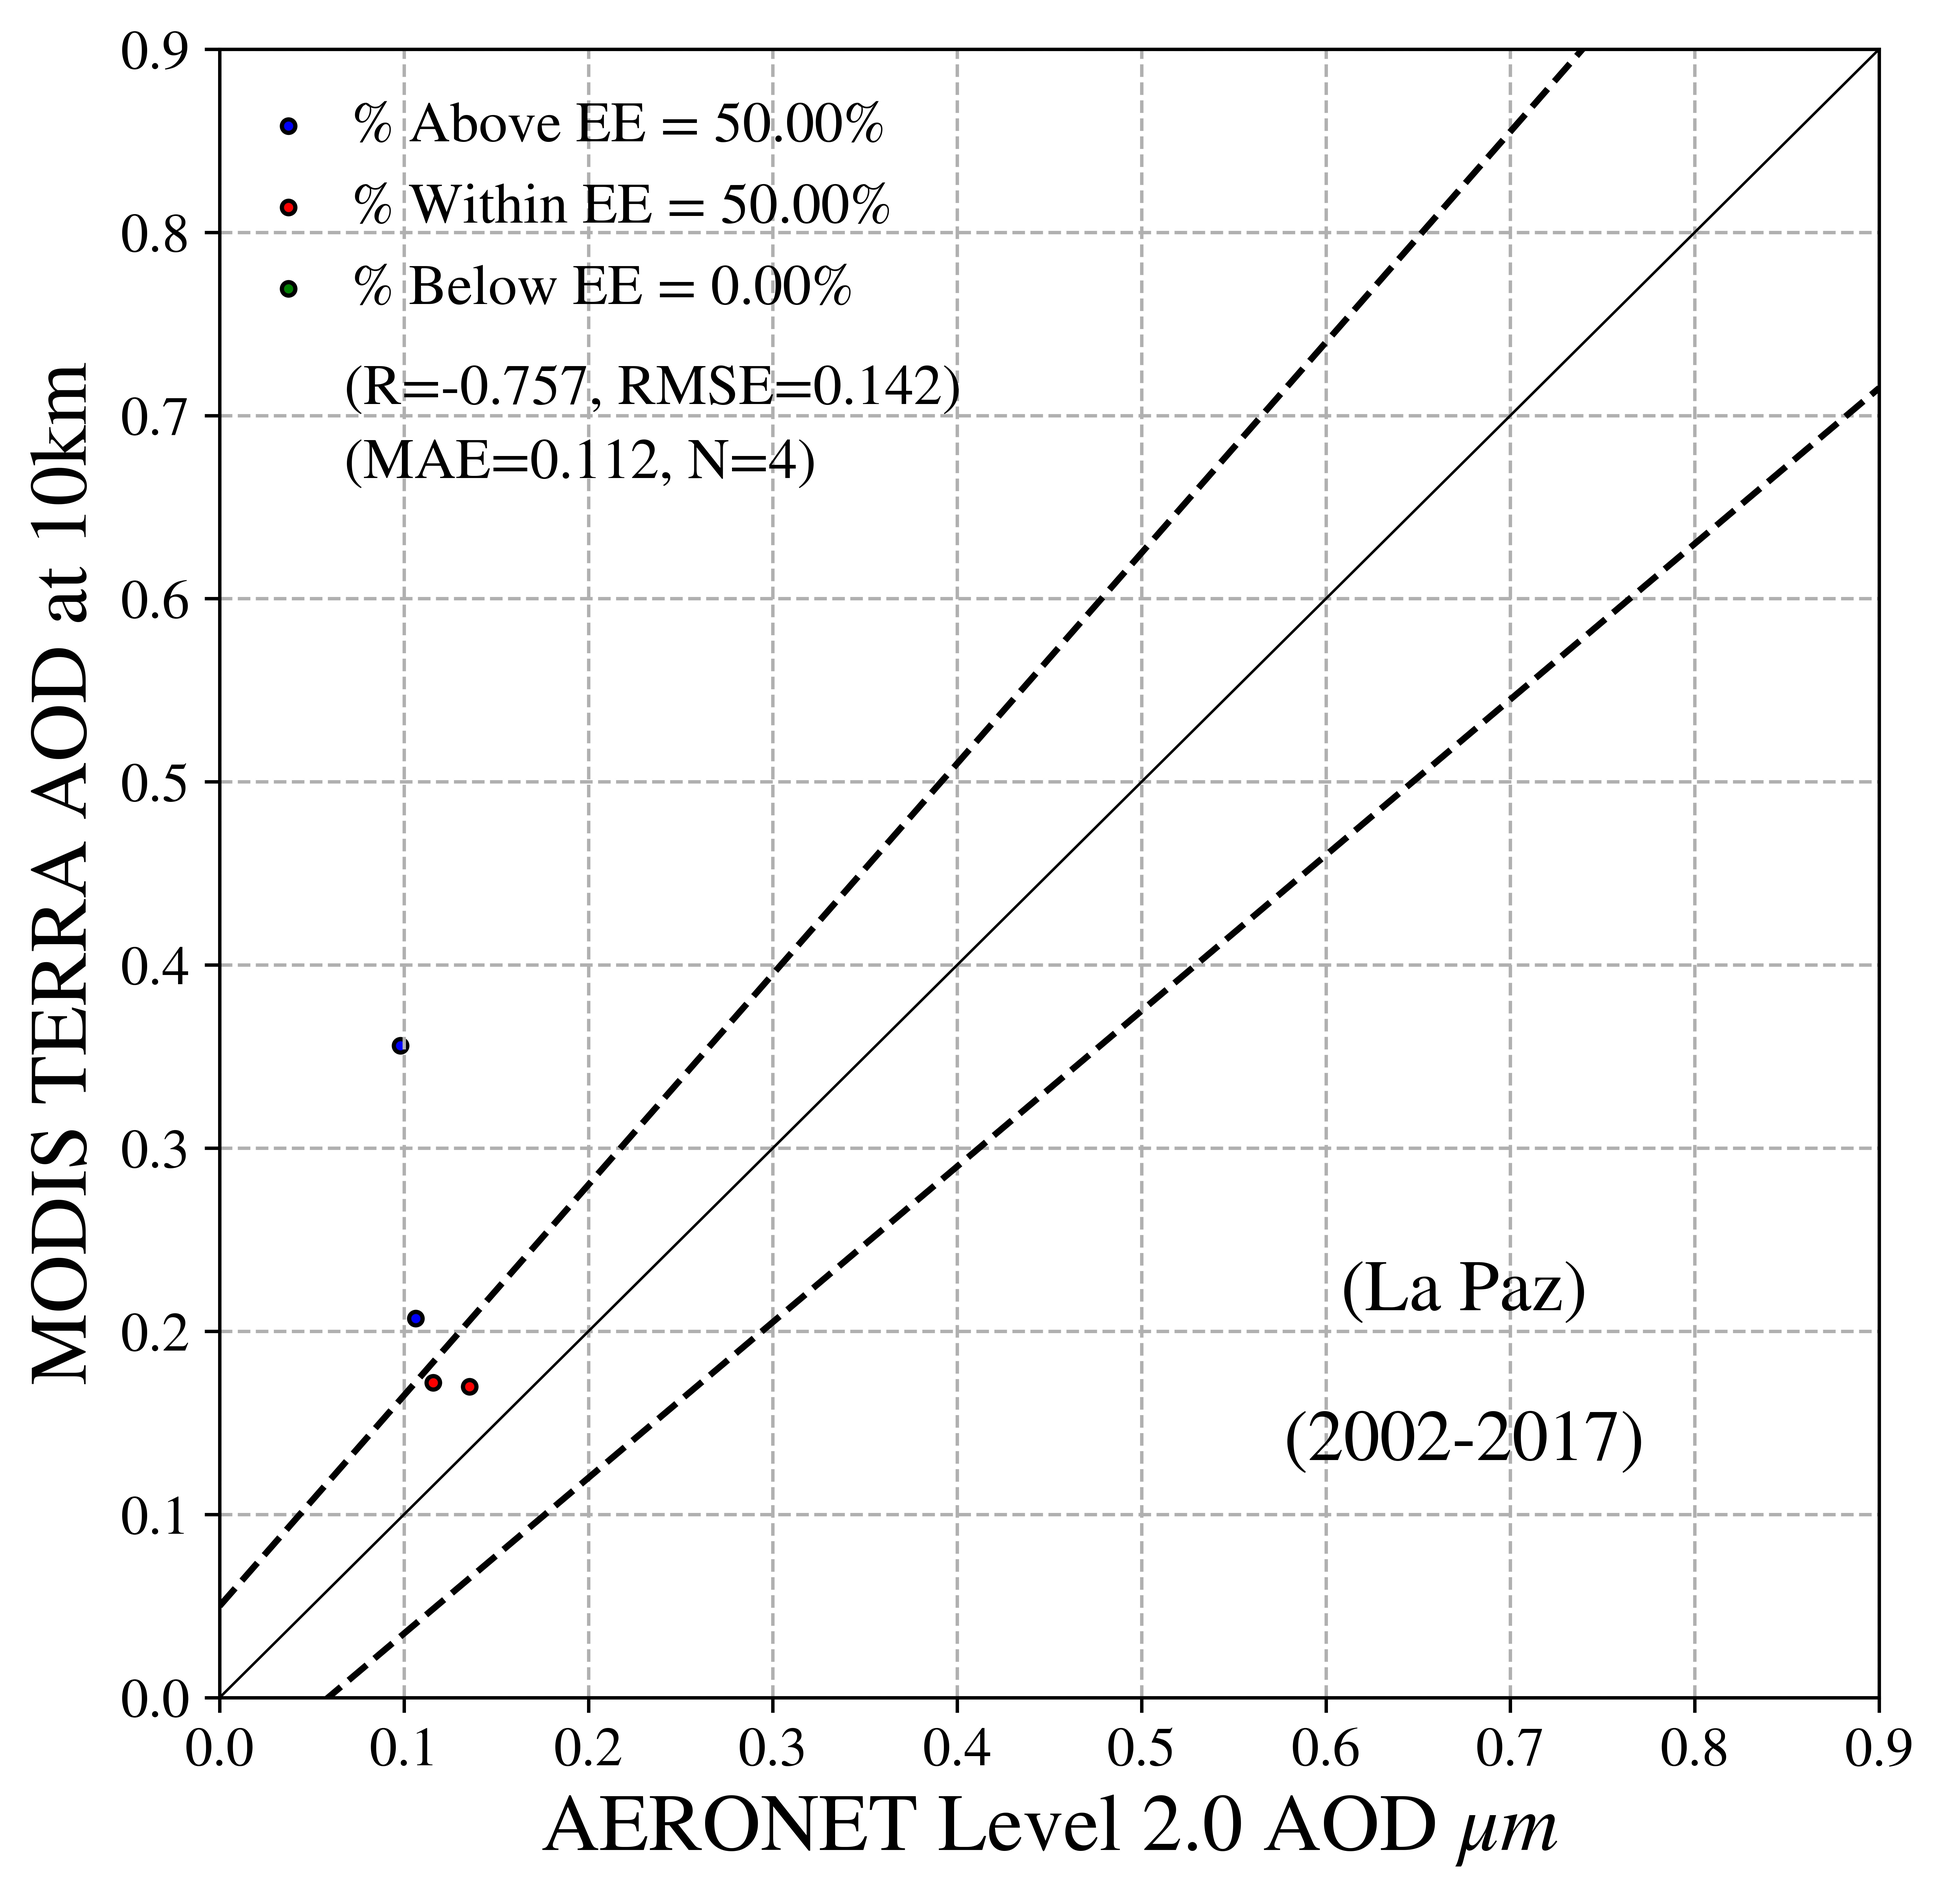
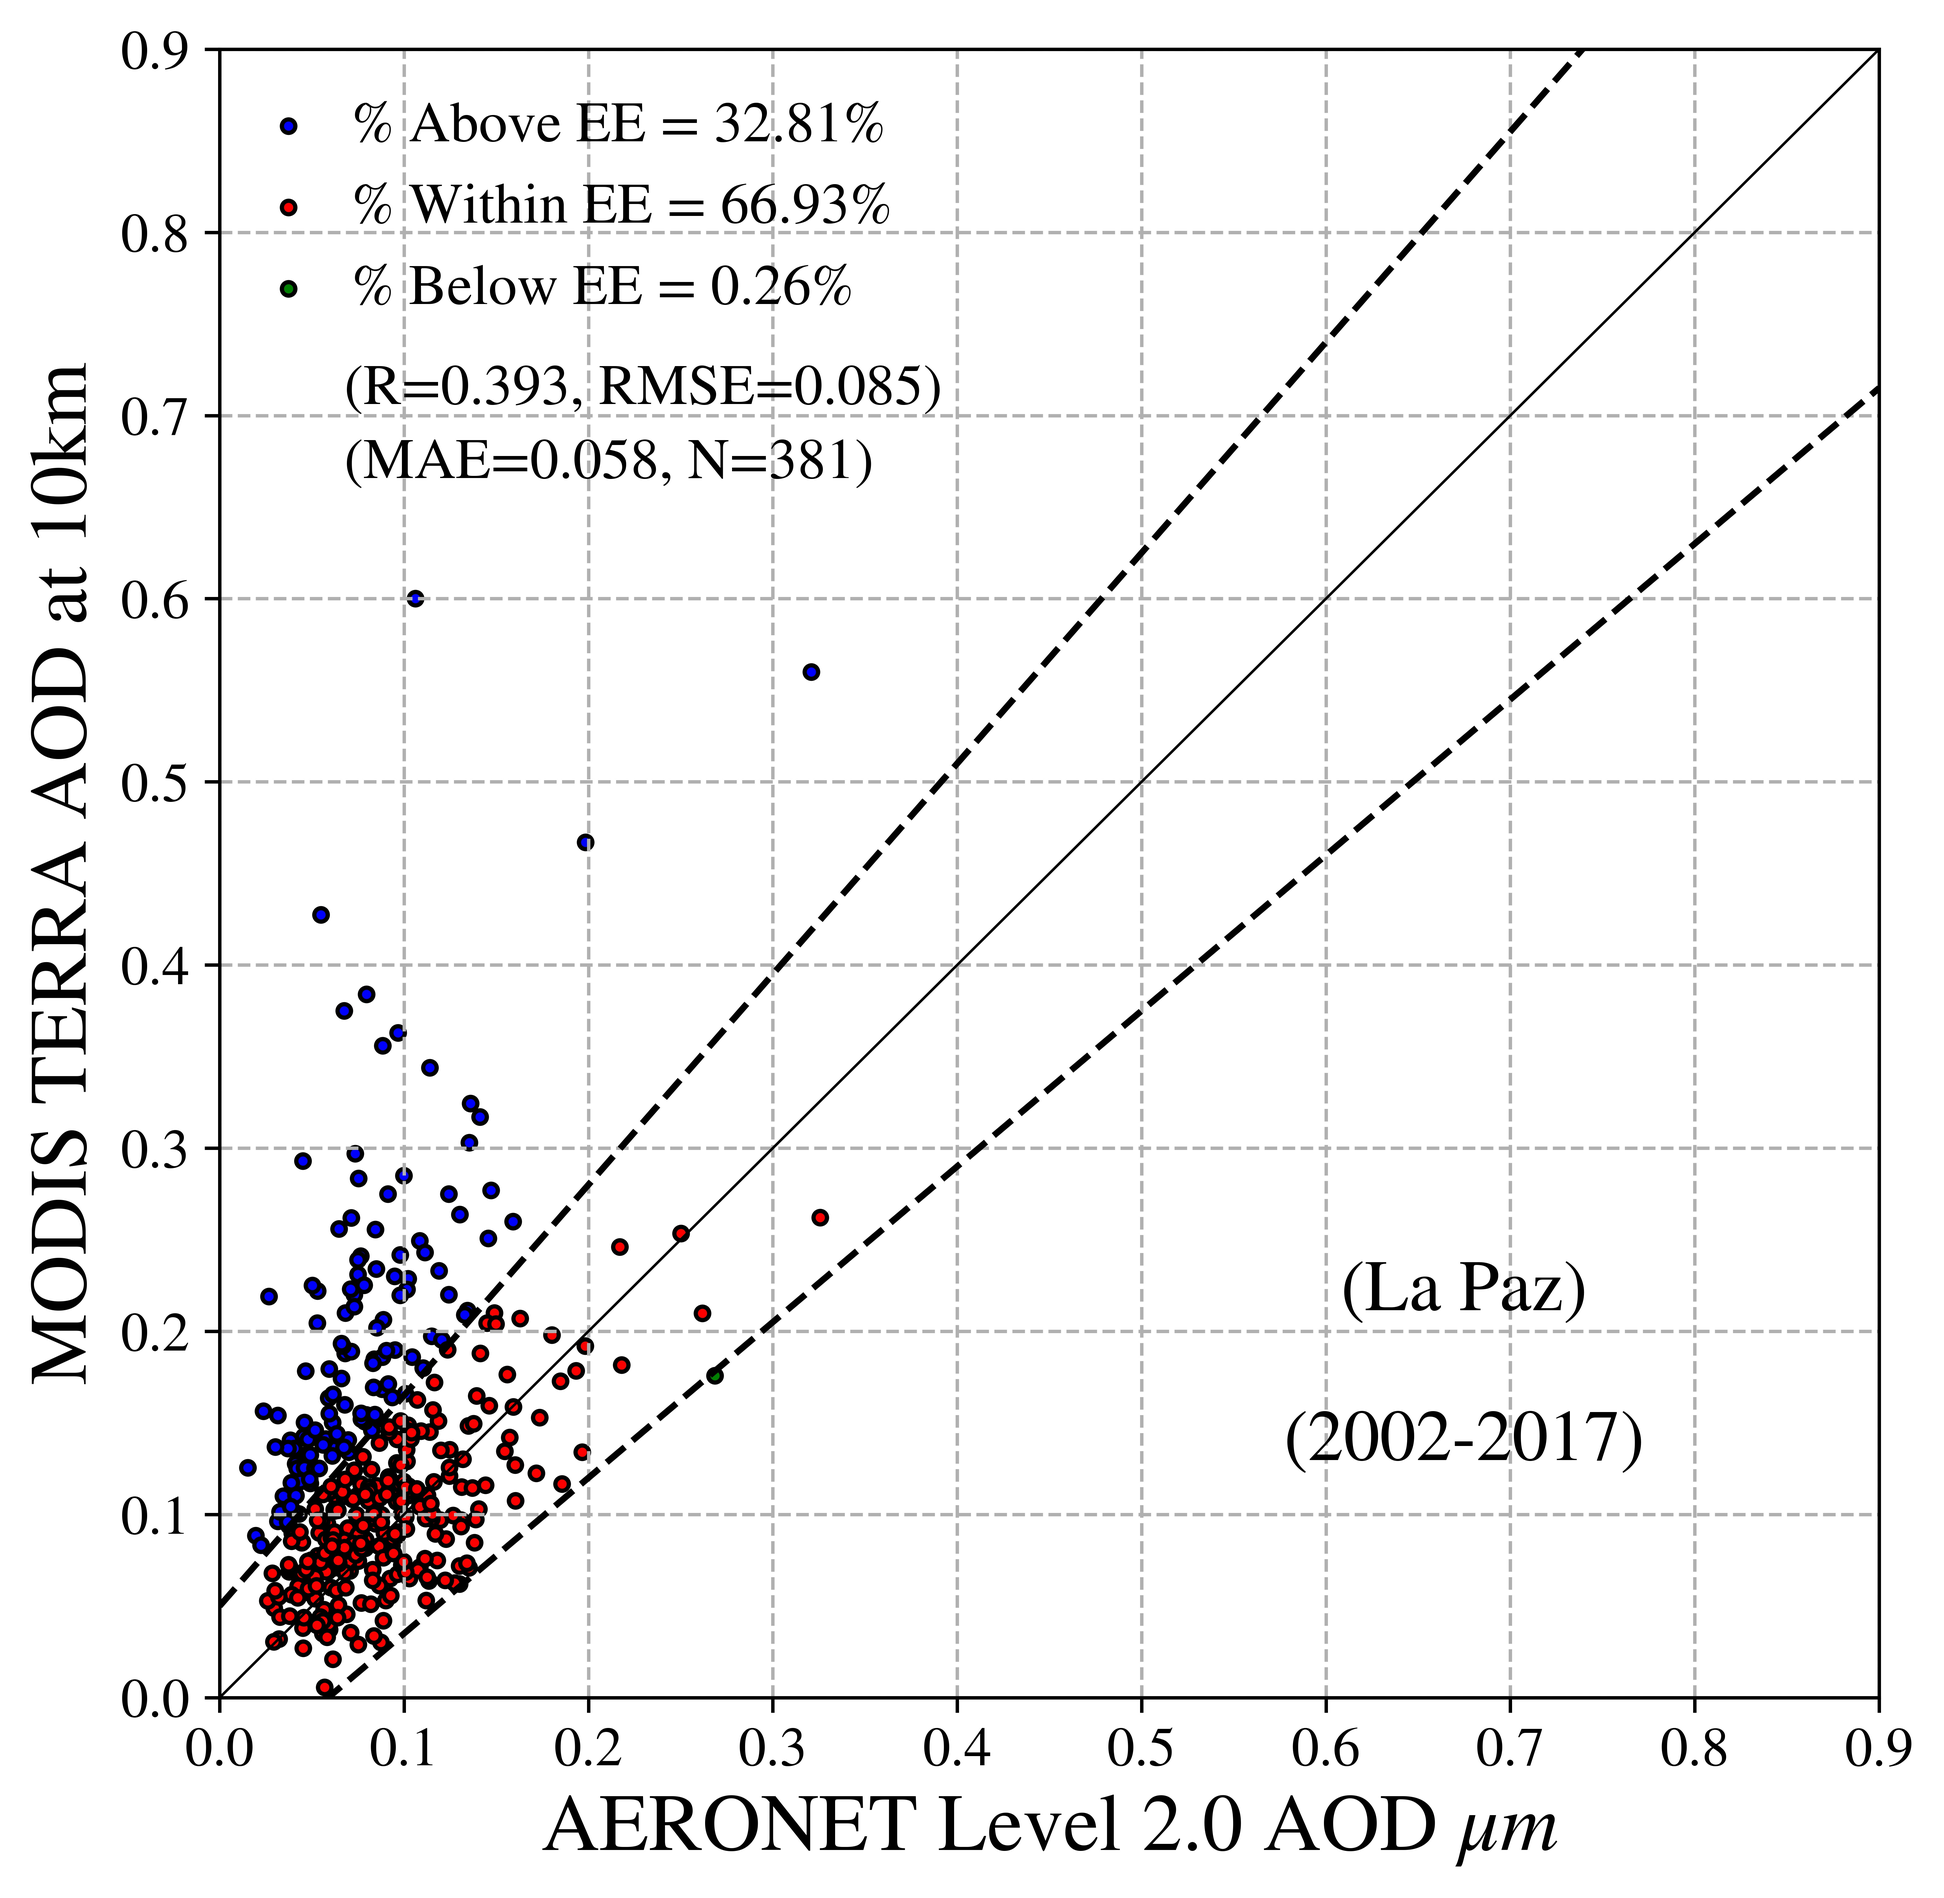
Added statistics code

diff --git a/MODIS_AOD modified/statistics.py b/MODIS_AOD modified/statistics.py
@@ -1,0 +1,107 @@
+# -*- coding: utf-8 -*-
+"""
+Created on Mon May 07 17:34:56 2018
+
+@author: gerar
+"""
+
+import os
+import pandas as pd
+import numpy as np
+from scipy.stats.stats import pearsonr
+
+#%%
+def rmse(predictions, targets):
+    return np.sqrt(((predictions - targets) ** 2).mean())
+
+#%%
+def mae(predictions,targets):
+    return np.abs((predictions - targets)).mean()
+
+#%%
+def bias(predictions,targets):
+    return np.mean(predictions)-np.mean(targets)
+
+#%%
+def r_deming(x,y):
+    x_mean = np.mean(x)
+    y_mean = np.mean(y)
+    sxx = np.sum(np.power(x-x_mean,2.))/(len(x)-1.)
+    syy = np.sum(np.power(y-y_mean,2.))/(len(x)-1.)
+    sxy = np.sum((x-x_mean)*(y-y_mean))/(len(x)-1.)
+    lamb = np.var(y)/np.var(x)
+    b1 = (syy-lamb*sxx+np.sqrt((syy-lamb*sxx)**2 +4*lamb*sxy**2))/(2*sxy)
+#    b0 = y_mean - x_mean*b1
+    return b1
+ 
+#%%
+def get_data(_file):
+#    data = pd.read_table(file_to_plot[0], parse_dates=[0],infer_datetime_format = True,usecols=(0,2,4)) #, parse_dates=[0],infer_datetime_format = True
+#    data = data.dropna() #[pd.notnull(data['AOD_AERONET'])]
+#    data = data.set_index('Date_MODIS')
+    modis_data,aeronet_data = np.loadtxt(_file,skiprows = 1,usecols=(2,4),unpack=True)    
+    return modis_data, aeronet_data
+
+#%%
+def helper(x):
+    return pd.DataFrame({'AOD_MODIS':x['AOD_MODIS'].values,'AOD_AERONET':x['AOD_AERONET'].values})
+
+#%%
+def main():
+    files = [x for x in os.listdir(os.getcwd()) if x.endswith("matched_data_end.txt")]
+    for _file in files:
+        modis, aeronet = get_data(_file)
+        general_data = pd.DataFrame(columns=['Statistics'],index=['RMSE','R_deming','R_pearson','MAE','BIAS','MEAN_MODIS','MEAN_AERONET'])
+        general_data.loc['RMSE']=rmse(modis,aeronet)
+        general_data.loc['R_deming']=r_deming(modis,aeronet)
+        general_data.loc['R_pearson']=pearsonr(modis,aeronet)[0]
+        general_data.loc['MAE']=mae(modis,aeronet)
+        general_data.loc['BIAS']=bias(modis,aeronet)
+        general_data.loc['MEAN_MODIS']=np.mean(modis)
+        general_data.loc['MEAN_AERONET']=np.mean(aeronet)
+        
+        data = pd.read_table(_file,usecols=[0,2,4])
+        data['Date_MODIS'] = data['Date_MODIS'].astype('datetime64[ns]')
+        m_data = data.groupby([data['Date_MODIS'].dt.month]).apply(helper)
+        m_index = m_data.index.get_level_values(0).unique()
+        
+        m_end = pd.DataFrame(columns=m_index,index=['RMSE','R_deming','R_pearson','MAE','BIAS','MEAN_MODIS','MEAN_AERONET'])
+        for values in m_index:
+            month_Data = m_data.loc[values]
+            if len(month_Data)==1:
+                continue
+            m_end.loc['RMSE'][values]=rmse(month_Data['AOD_MODIS'],month_Data['AOD_AERONET'])
+            m_end.loc['R_deming'][values]=r_deming(month_Data['AOD_MODIS'],month_Data['AOD_AERONET'])
+            m_end.loc['R_pearson'][values]=pearsonr(month_Data['AOD_MODIS'],month_Data['AOD_AERONET'])[0]
+            m_end.loc['MAE'][values]=mae(month_Data['AOD_MODIS'],month_Data['AOD_AERONET'])
+            m_end.loc['BIAS'][values]=bias(month_Data['AOD_MODIS'],month_Data['AOD_AERONET'])
+            m_end.loc['MEAN_MODIS'][values]=np.mean(month_Data['AOD_MODIS'])
+            m_end.loc['MEAN_AERONET'][values]=np.mean(month_Data['AOD_AERONET'])
+        
+        y_data = data.groupby([data['Date_MODIS'].dt.year]).apply(helper)
+        y_index = y_data.index.get_level_values(0).unique()
+        
+        y_end = pd.DataFrame(columns=y_index,index=['RMSE','R_deming','R_pearson','MAE','BIAS','MEAN_MODIS','MEAN_AERONET'])
+        for values in y_index:
+            year_Data = y_data.loc[values]
+            if len(year_Data)==1:
+                continue
+            y_end.loc['RMSE'][values]=rmse(year_Data['AOD_MODIS'],year_Data['AOD_AERONET'])
+            y_end.loc['R_deming'][values]=r_deming(year_Data['AOD_MODIS'],year_Data['AOD_AERONET'])
+            y_end.loc['R_pearson'][values]=pearsonr(year_Data['AOD_MODIS'],year_Data['AOD_AERONET'])[0]
+            y_end.loc['MAE'][values]=mae(year_Data['AOD_MODIS'],year_Data['AOD_AERONET'])
+            y_end.loc['BIAS'][values]=bias(year_Data['AOD_MODIS'],year_Data['AOD_AERONET'])
+            y_end.loc['MEAN_MODIS'][values]=np.mean(year_Data['AOD_MODIS'])
+            y_end.loc['MEAN_AERONET'][values]=np.mean(year_Data['AOD_AERONET'])
+        
+        writer = pd.ExcelWriter('statistics_{}.xlsx'.format(_file[:-21]))
+        general_data.to_excel(writer,'Estadistica_general')
+        m_end.to_excel(writer,'Estadistica_mensual')
+        y_end.to_excel(writer,'Estadistica_anual')
+        writer.save()
+    return general_data, m_end, y_end
+    #Abro el archivo y guardo los datos en numpy.arrays (dtype=float)
+
+#%%
+if __name__ == '__main__':
+    g_stats, m_stat, y_stat = main()

diff --git a/MODIS_AOD modified/np_scatter_plot.py b/MODIS_AOD modified/np_scatter_plot.py
@@ -41,13 +41,13 @@ matplotlib.rcParams['font.family'] = 'STIXGeneral'
 #Defino la funcion para rmse y mae
 def rmse(predictions, targets):
     return np.sqrt(((predictions - targets) ** 2).mean())
-
+7
 def mae(predictions,targets):
     return np.abs((predictions - targets)).mean()
 #%%
 #Encuentro el archivo en formato txt a plottear
 file_to_plot = [x for x in os.listdir(os.getcwd()) \
-               if x.endswith("{}{}_matched_data.txt".format(\
+               if x.endswith("{}{}_matched_data_end.txt".format(\
                              AERONET_station.lower().replace(" ",""),grid))]
 #Abro el archivo y guardo los datos en numpy.arrays (dtype=float)
 modis_data,aeronet_data = np.loadtxt(file_to_plot[0],skiprows = 1,usecols=(2,4),unpack=True)
